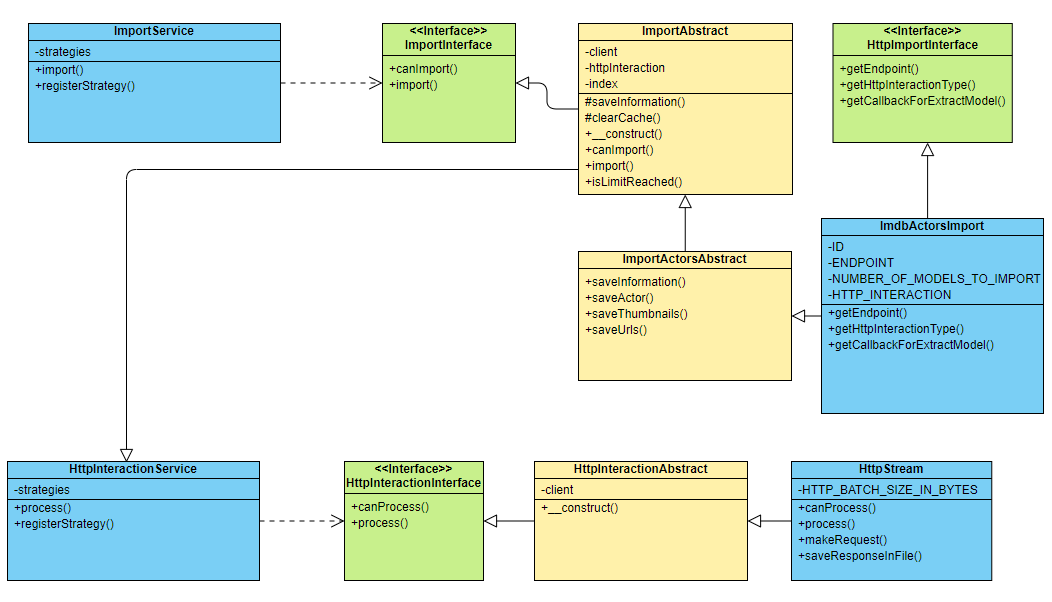
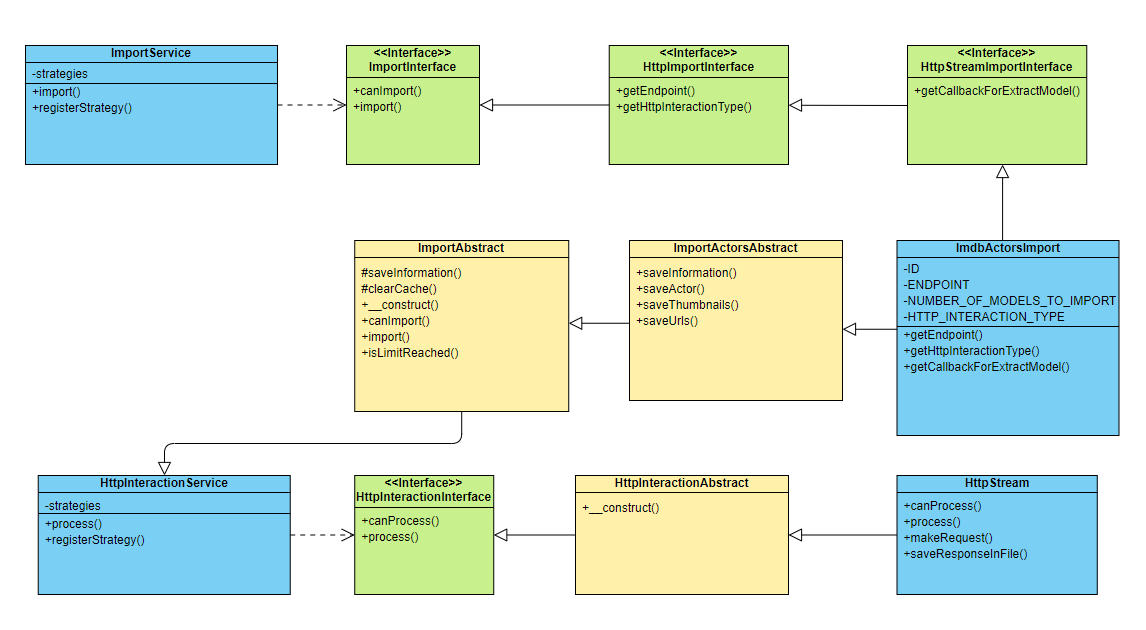
Extend interfaces, UML remake and more tests

diff --git a/tests/Unit/PornhubActorsApiTest.php b/tests/Unit/PornhubActorsApiTest.php
@@ -11,28 +11,90 @@ class PornhubActorsApiTest extends TestCase
 {
     public function testImport()
     {
-        $client = new Client();
         $httpInteractionService = \Mockery::mock(HttpInteractionService::class);
-        $service = \Mockery::mock('App\Services\Import\Providers\PornhubActorsImport[saveInformation]', [$client, $httpInteractionService])
-            ->makePartial()
-            ->shouldAllowMockingProtectedMethods();
+        $service = $this->getMockOfTestedServiceWithHttpInteractionService(
+            $httpInteractionService,
+            ['saveInformation','isLimitReached','clearCache']
+        );        
 
         $httpInteractionService->shouldReceive('import')
             ->once()
             ->andReturn(['text']);
-
         $service->shouldReceive('saveInformation')
+            ->once()
+            ->shouldReceive('isLimitReached')
+            ->once()
+            ->shouldReceive('clearCache')
             ->once();
+
         $service->import();
     }
 
     public function testCanImport()
     {
+        $service = $this->getMockOfTestedServiceOnlyWithMethodsToMock();
+
+        $this->assertTrue($service->canImport(PornhubActorsImport::ID));
+    }
+
+    public function testGetEndpoint()
+    {
+        $service = $this->getMockOfTestedServiceOnlyWithMethodsToMock(['getEndpoint']);
+
+        $this->assertEquals(PornhubActorsImport::ENDPOINT, $service->getEndpoint());
+    }
+
+    public function testGetHttpInteractionType()
+    {
+        $service = $this->getMockOfTestedServiceOnlyWithMethodsToMock(['getHttpInteractionType']);
+
+        $this->assertEquals(PornhubActorsImport::HTTP_INTERACTION_TYPE, $service->getHttpInteractionType());
+    }
+
+    public function testGetCallbackForExtractModel()
+    {
+        $service = $this->getMockOfTestedServiceOnlyWithMethodsToMock(['getCallbackForExtractModel']);
+
+        $this->assertIsCallable($service->getCallbackForExtractModel());
+    }
+
+    private function getMockOfTestedServiceOnlyWithMethodsToMock($methodsToMock = [])
+    {
         $client = new Client();
-        $pornhubResource = \Mockery::mock('App\Services\Import\Providers\PornhubActorsImport[]', [$client])
+        $httpInteractionService = \Mockery::mock(HttpInteractionService::class);
+
+        return $this->getMockOfTestedService(
+            $client, 
+            $httpInteractionService,
+            $methodsToMock
+        );
+    }
+
+    private function getMockOfTestedServiceWithHttpInteractionService(
+        $httpInteractionService,
+        $methodsToMock = []
+    ) {
+        $client = new Client();
+
+        return $this->getMockOfTestedService(
+            $client, 
+            $httpInteractionService,
+            $methodsToMock
+        );
+    }
+
+    private function getMockOfTestedService(
+        $client,
+        $httpInteractionService,
+        array $methodsToMock = []
+    ) {
+        $className = sprintf(
+            'App\Services\Import\Providers\PornhubActorsImport[%s]',
+            implode(',', $methodsToMock)
+        );
+
+        return \Mockery::mock($className, [$client, $httpInteractionService])
             ->makePartial()
             ->shouldAllowMockingProtectedMethods();
-
-        $this->assertTrue($pornhubResource->canImport(PornhubActorsImport::ID));
     }
 }

diff --git a/app/Services/Import/ImportAbstract.php b/app/Services/Import/ImportAbstract.php
@@ -2,10 +2,11 @@
 
 namespace App\Services\Import;
 
-use App\Interfaces\ImportInterface;
+use App\Enums\HttpInteractionsEnum;
+use App\Interfaces\HttpStreamImportInterface;
 use GuzzleHttp\Client;
 
-abstract class ImportAbstract implements ImportInterface
+abstract class ImportAbstract
 {
     protected Client $client;
     protected HttpInteractionService $httpInteraction;
@@ -23,7 +24,7 @@ abstract class ImportAbstract implements ImportInterface
 
     public function canImport(string $string): bool
     {
-        return $string === static::ID;
+        return $string === static::ID && $this->isImplementedTheCorrectInterfaceForHttpInteractionType();
     }
 
     public function import()
@@ -44,5 +45,11 @@ abstract class ImportAbstract implements ImportInterface
     protected function isLimitReached(): bool
     {
         return ++$this->index == static::NUMBER_OF_MODELS_TO_IMPORT;
+    }
+
+    private function isImplementedTheCorrectInterfaceForHttpInteractionType()
+    {
+        return static::HTTP_INTERACTION_TYPE !== HttpInteractionsEnum::STREAM ||
+            (static::HTTP_INTERACTION_TYPE === HttpInteractionsEnum::STREAM && $this instanceof HttpStreamImportInterface);
     }
 }

diff --git a/app/Services/Import/Providers/PornhubActorsImport.php b/app/Services/Import/Providers/PornhubActorsImport.php
@@ -3,14 +3,15 @@
 namespace App\Services\Import\Providers;
 
 use App\Enums\HttpInteractionsEnum;
+use App\Interfaces\HttpStreamImportInterface;
 use App\Services\Import\ImportActorsAbstract;
 
-class PornhubActorsImport extends ImportActorsAbstract
+class PornhubActorsImport extends ImportActorsAbstract implements HttpStreamImportInterface
 {
     public const ID = 'pornhub.actors';
     public const ENDPOINT = 'https://www.pornhub.com/files/json_feed_pornstars.json';
     public const NUMBER_OF_MODELS_TO_IMPORT = 100;
-    public const HTTP_ITERACTION_TYPE = HttpInteractionsEnum::STREAM;
+    public const HTTP_INTERACTION_TYPE = HttpInteractionsEnum::STREAM;
 
     public function getEndpoint()
     {
@@ -19,7 +20,7 @@ class PornhubActorsImport extends ImportActorsAbstract
 
     public function getHttpInteractionType()
     {
-        return self::HTTP_ITERACTION_TYPE->value;
+        return self::HTTP_INTERACTION_TYPE;
     }
 
     public function getCallbackForExtractModel(): callable

diff --git a/app/Services/Import/ImportActorsAbstract.php b/app/Services/Import/ImportActorsAbstract.php
@@ -2,12 +2,11 @@
 
 namespace App\Services\Import;
 
-use App\Interfaces\HttpImportInterface;
 use App\Models\Actor;
 use App\Repositories\ActorsRepository;
 use Illuminate\Support\Facades\Cache;
 
-abstract class ImportActorsAbstract extends ImportAbstract implements HttpImportInterface
+abstract class ImportActorsAbstract extends ImportAbstract
 {
     protected function saveInformation($information)
     {

diff --git a/app/Services/Import/HttpStream.php b/app/Services/Import/HttpStream.php
@@ -12,7 +12,7 @@ class HttpStream extends HttpInteractionAbstract
 
     public function canProcess(HttpImportInterface $source): bool
     {
-        return $source->getHttpInteractionType() === HttpInteractionsEnum::STREAM->value;
+        return $source->getHttpInteractionType() === HttpInteractionsEnum::STREAM;
     }
 
     public function process(HttpImportInterface $source)

diff --git a/app/Interfaces/HttpInteractionInterface.php b/app/Interfaces/HttpInteractionInterface.php
@@ -4,7 +4,7 @@ namespace App\Interfaces;
 
 interface HttpInteractionInterface
 {
-    public function canProcess(HttpImportInterface $httpImportInterface);
+    public function canProcess(HttpImportInterface $httpImportInterface): bool;
 
     public function process(HttpImportInterface $httpImportInterface);
 }

diff --git a/app/Interfaces/HttpImportInterface.php b/app/Interfaces/HttpImportInterface.php
@@ -2,11 +2,9 @@
 
 namespace App\Interfaces;
 
-interface HttpImportInterface
+interface HttpImportInterface extends ImportInterface
 {
     public function getEndpoint();
 
     public function getHttpInteractionType();
-
-    public function getCallbackForExtractModel(): callable;
 }

diff --git a/app/Interfaces/HttpStreamImportInterface.php b/app/Interfaces/HttpStreamImportInterface.php
@@ -1,0 +1,8 @@
+<?php
+
+namespace App\Interfaces;
+
+interface HttpStreamImportInterface extends HttpImportInterface
+{
+    public function getCallbackForExtractModel(): callable;
+}
